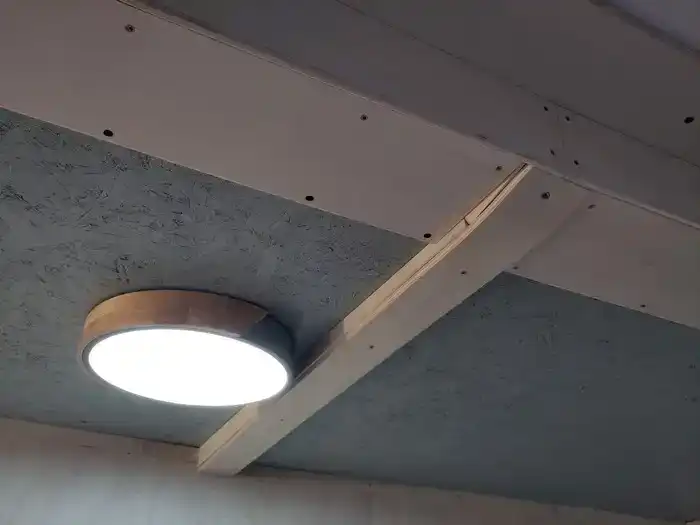
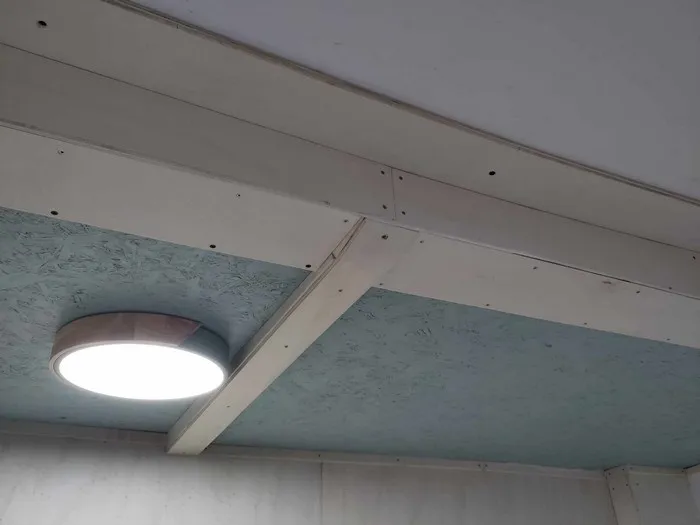
feat(blog): finish home_work blog

diff --git a/data/blog/home-work.md b/data/blog/home-work.md
@@ -1,0 +1,159 @@
+---
+title: 'home work'
+date: '2023-11-01'
+description: 'working at the house'
+category: 'irl work construction'
+icon: '/blog/home-work/icon.webp'
+---
+### BONJOUR
+
+It's been a long time since I made a new article, I had a new freelance mission from **March** to **September**
+
+So, if you are reading this, it's either because you are curious about what I did during **September** to **November** 2023 or you are my **mum** ( the only person interested in my posts)
+
+## Context
+
+![house](/blog/home-work/presentation.webp)
+
+My house is the **white one**, the bottom (**red square**) belongs to the abandoned house.
+I don't know why/when they split it, I just bought it like this ...
+
+*I recently met people that visited the house before us, and they didn't buy it as they considered this as a red flag*
+
+![hole](/blog/home-work/hole.webp)
+
+The problem was the common part (roof) from the haunted house was **really bad**, you could see the wood of my 1st floor because of the  holes
+
+
+![temperature](/blog/home-work/temperature.webp)
+This led to have nice clim during **summer**, and terrible cold during **winter**
+
+At worst, we had **11°** in the house and **3°** at the floor level ...
+
+
+So I contacted the owner ( a realestate company ) to see if I could buy the abandoned house but for historic reason I was able to only obtain the red-square part
+
+It took **only 2 years** ! Finding a falicitator for geometry / notary / real-estate / contacting neighbours... In the meantime, the real estate agent was thanked with a **thank you bye** letter from his boss for his wonderfull work
+
+As a **total noob** in using my hands somewhere else than a keyboard, I will be accompanied by my father during the process. All the decisions were made based on his experience and civil engineering ref I could find on internet
+
+# Start
+
+## ceiling
+*Note at this step I was uncertain I could buy the small-part, they just agreed to let me put isolation on the ceiling to fight the winter*
+
+![plafond](/blog/home-work/plafond.webp)
+
+- remove the cob, wood and nails
+- put fixations at the same levels using the laser
+- first, 20cm of glass wool
+- tie with rope
+
+
+![plafond_with_isolation](/blog/home-work/plafond_with_isolation.webp)
+
+- put aluminium rail to accept ceiling
+- add another big 40cm of wood wool
+
+![plafond_finished](/blog/home-work/plafond_finished.webp)
+- put OBS to proctect the job done
+
+### notes
+- I choosed  **wood wool** for ecological reason, it was horrible to cut. You have to compress the area with clamp and saw carrefully to cut the wool. The material is rigid and really hard to place behind the rails. It also spread a lot of particules, great for your lungs
+- I used a **plate lifter** for the obs, I have no idea how it is possible to do without it
+
+## the wall
+
+After 2 years of negociating, we had an **agreement** with the owner ! Fantastic ! The condition was to build a wall of separation between my new little area and the abandoned house.
+
+To proove that I'm wiling to do it, they just want a **paper with an estimation of a mason**
+
+Problem : absolutely nobody want to do the job, it's too small for them.
+
+So let's see how to do a nice wall
+
+*When I gave them the paper from the only mason that agreed to come, they finaly asked me to give them 2 papers, one for the inside wall & one for the outside. I asked them if they needed a paper for each block of concrete and they gave up their new brillant idea*
+
+![dig foundation](/blog/home-work/dig_foundation.webp)
+
+For the **foundation**
+- I dug 50cm
+- placed a thin layer of concrete
+-  first 2 rows of concrete block
+
+![floor](/blog/home-work/floor.webp)
+
+once I put the 2nd row, I made the floor before the wall would be too tall, I did my best to make it at the **same level** of my current house
+
+![wall](/blog/home-work/wall.webp)
+
+Then **each week**, add 3 rows of concretes, and let it dry for the next week
+
+![dig wall](/blog/home-work/dig_wall.webp)
+
+now the wall is **too high** to access the oposite side, I need to dig an access from inside my house.
+
+*It needs to be **tight** because this is the sewing workshop of my wife ...*
+
+### notes
+- we used a rope to ensure the wall is straight, the concrete block needs to be placed above the rope so it has to be placed with fingertip
+
+- at the begining, the pain was in the **back** because of the low working position
+
+- at the middle, in the **fingers** because *"you need to put the concrete above the rope and above all DONT TOUCH THE ROPES STUPID SON"*
+
+- at the end, in both because of the impossible position
+
+*It was definitly the most physical part, not enjoyable, I would not recomend it*
+
+## inside
+
+![wall break](/blog/home-work/wall_break.webp)
+
+- finish to open the wall
+- throw all the **red bricks** on the other side ( you can see on the 2nd picture the wall was not totally closed)
+- even if it was not a **"bearer wall"** , with old house it can become "semi-bearer", I put some props for safety and will add a wooden beam for peace of mind
+- even the new **edges** with cement
+
+![tiles](/blog/home-work/tiles.webp)
+
+I found second-hand grey tiles for only **3€/square²** , thanks again to my little sister that drove me to get them
+
+![slope](/blog/home-work/slope.webp)
+
+there was still a big difference of level between the house and the new space ... I did the smoothest slope I could
+
+![tiles slope finished](/blog/home-work/tiles_slope_finished.webp)
+
+at this step, I'm sad to say the smartphone of my wife **died** ( my wife is still alive, even sadder) ... with all the last pictures I took
+
+please use your imagination for the rest
+
+- add wood structure
+- insert **4cm** of wood wool inside part( sound isolation ) and **20cm** for the little part that is exposed to outside
+- apply **plywood** pannel
+- add **placo** for the part too damaged to set wood
+- make the **skirting board** for top & bottom (I used the leftover of plywood and a bosh flusher)
+- set up **electricity**
+
+# result
+
+![finished from left](/blog/home-work/finished_from_left.webp)
+
+![finished from right](/blog/home-work/finished_from_right.webp)
+
+![ceiling finished](/blog/home-work/ceiling_finished.webp)
+
+![my dad](/blog/home-work/dad.webp)
+
+My father woke up nearly everyday with me, **6am** to walk the dog and **7am** at my house ready to sweat
+
+He was involved in **every steps** I showed you and much more I didn't show like moving 100 concrete blocks, picking and throwing waste at the recycling center, finding fantastic cheap wood at 120km, bringing all his personal items etc etc ...
+
+He is **65 years old** but has the strenght of an ape
+
+**Thank you** for showing and teaching me how to advance, also for forcing me to go back to school so I have a job on a chair ...
+
+
+
+
